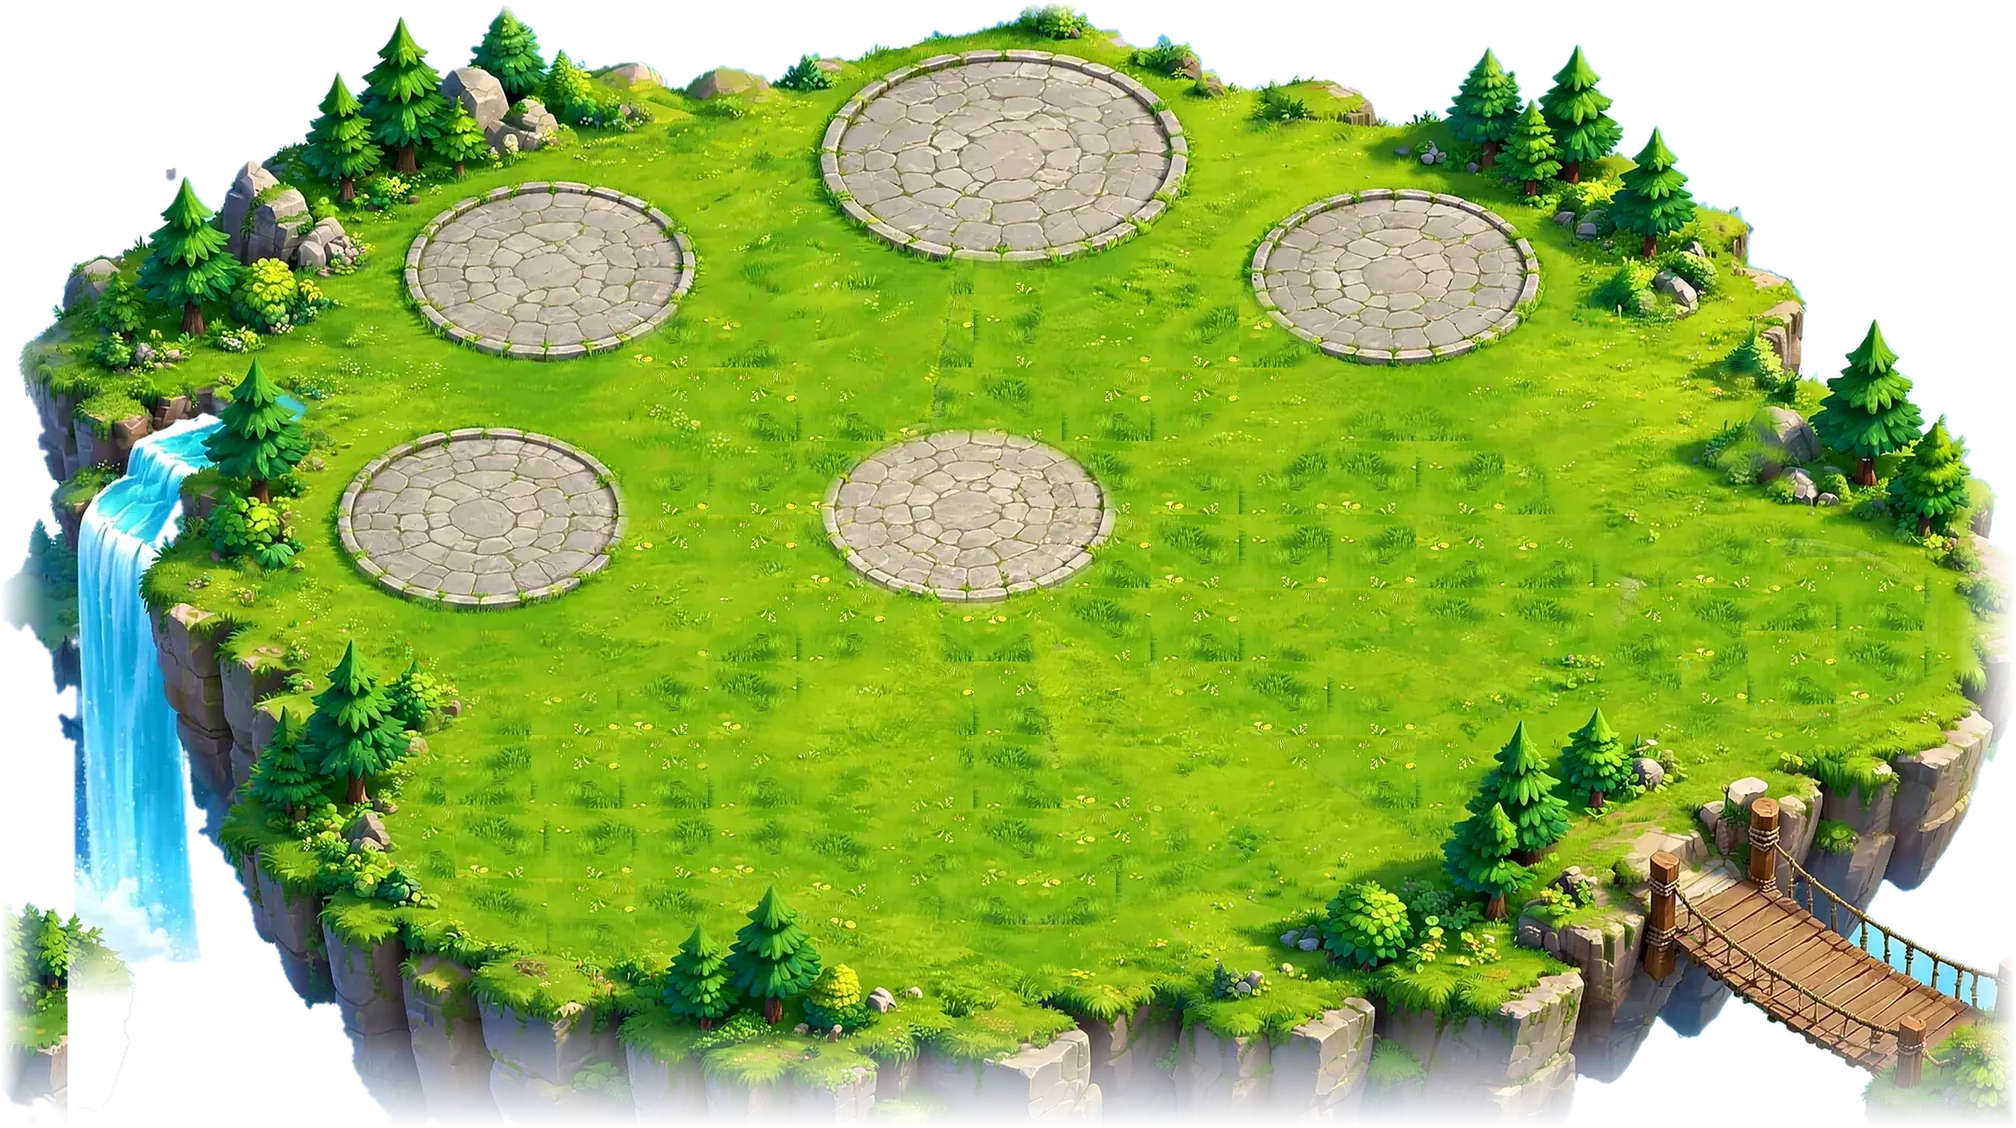
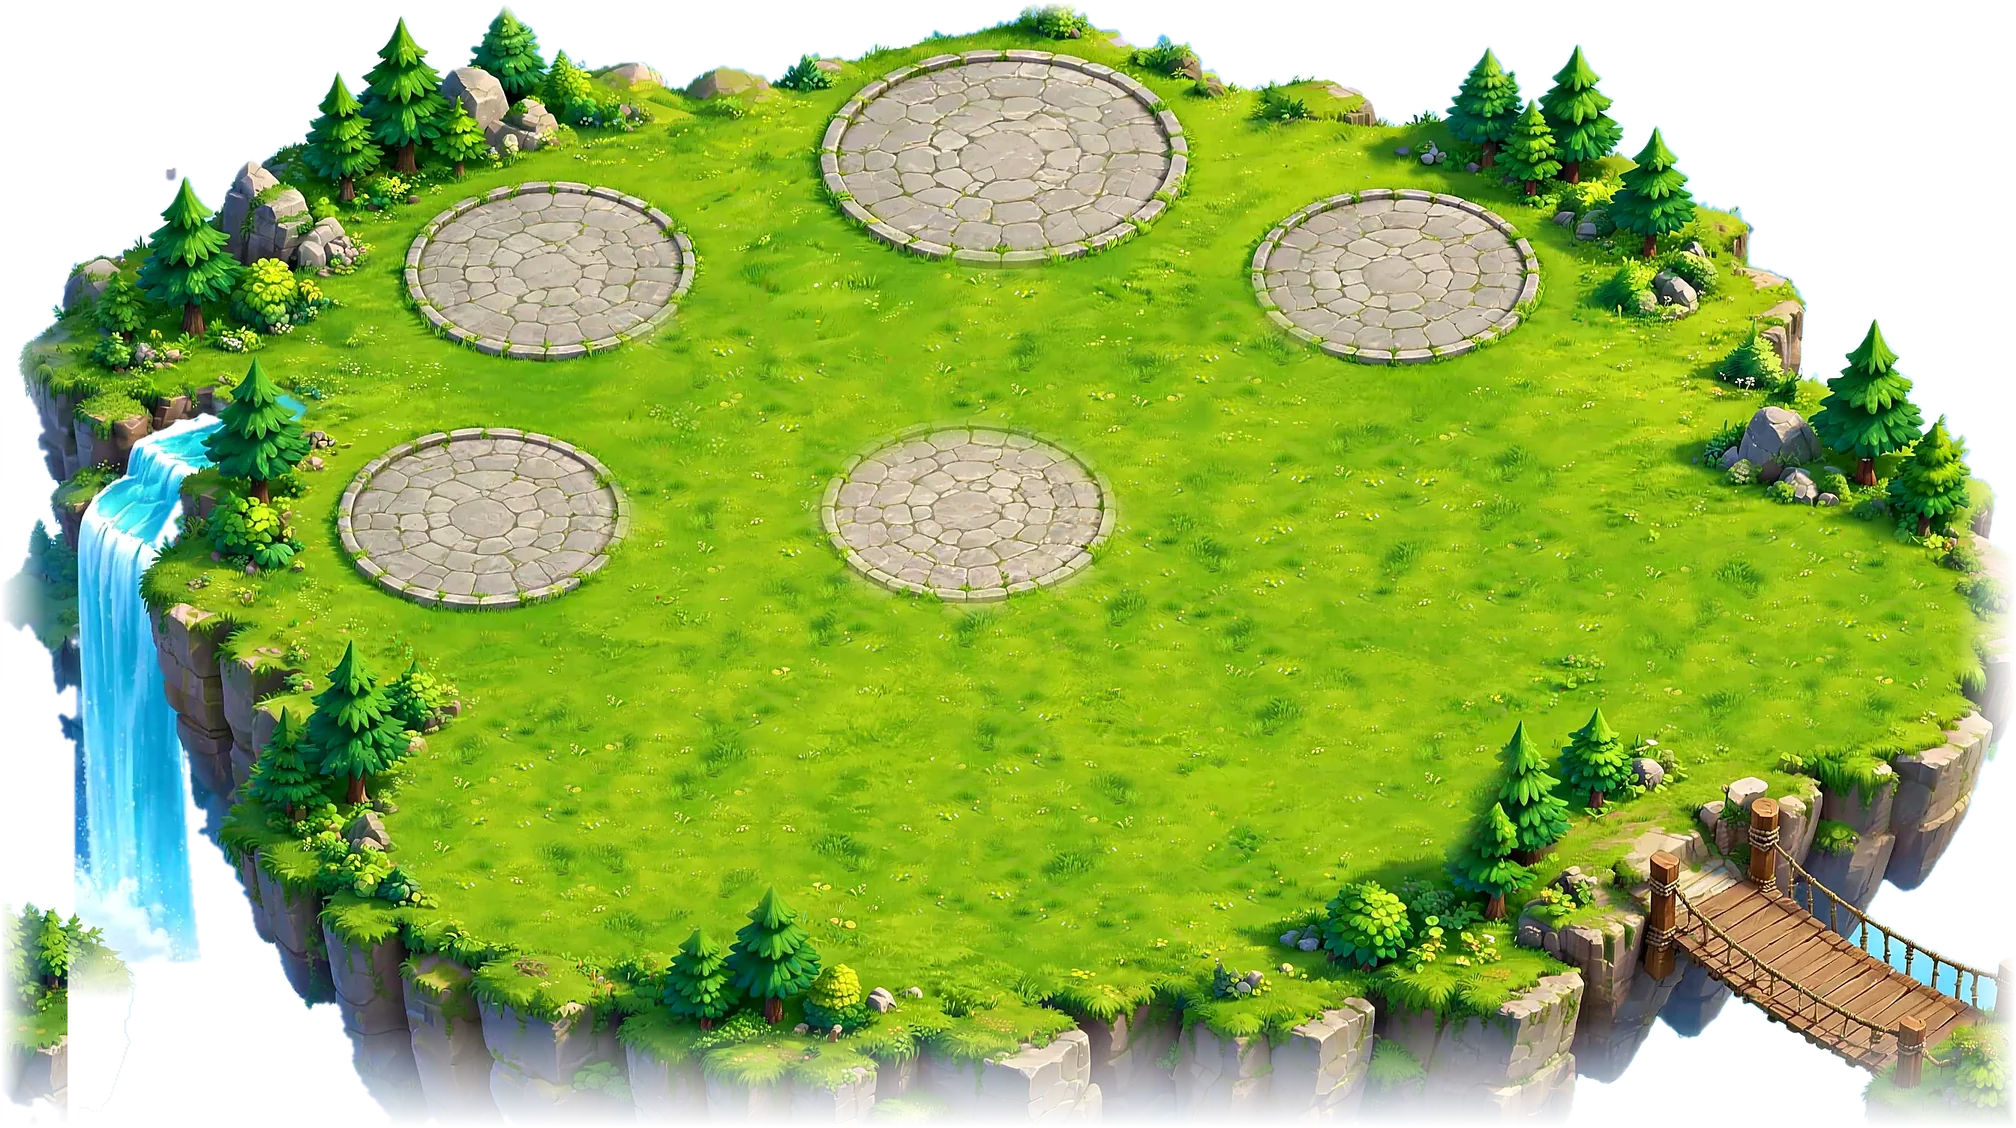
草地重新修補更自然；萌獸只走空地不踩建築；裝飾店改原版鐵匠鋪並加入建築外觀（7種）
Claude-Session: https://claude.ai/code/session_011E9LWKbRev5CpXJ2t3WaU7

diff --git a/index.html b/index.html
@@ -557,9 +557,9 @@ function sprite(name, gx, gy, w, opt={}){
   return `<image href="${A(name)}" x="${(x-w/2).toFixed(1)}" y="${yy.toFixed(1)}" width="${w}" height="${h.toFixed(1)}" ${opt.cls?`class="${opt.cls}"`:''}/>`;
 }
 /* 建築外觀（萌獸 7 種樣式） */
-const SKIN_R = {"b_play": 1.1599, "bb_play": 1.164, "bc_play": 1.203, "bf_play": 1.166, "bi_play": 1.1429, "bj_play": 1.1721, "bl_play": 1.1802, "b_academy": 1.0702, "bb_academy": 1.115, "bc_academy": 1.25, "bf_academy": 1.115, "bi_academy": 1.1918, "bj_academy": 1.113, "bl_academy": 1.115, "b_farm": 1.0357, "bb_farm": 1.0317, "bc_farm": 1.0793, "bf_farm": 1.0556, "bi_farm": 1.1327, "bj_farm": 1.0575, "bl_farm": 1.0575, "b_shop": 1.0997, "bb_shop": 1.1268, "bc_shop": 1.1615, "bf_shop": 1.115, "bi_shop": 1.1388, "bj_shop": 1.1189, "bl_shop": 1.1348, "b_fountain": 1.1679, "bb_fountain": 1.1532, "bc_fountain": 1.1228, "bf_fountain": 1.147, "bi_fountain": 1.1429, "bj_fountain": 1.1449, "bl_fountain": 1.1615, "b_train": 1.0774, "bb_train": 1.1151, "bc_train": 1.0884, "bf_train": 1.119, "bi_train": 1.1348, "bj_train": 1.119, "bl_train": 1.1369, "b_play": 1.1599};
-const SKIN_PART = {home:'academy', barn:'farm', shop:'shop', fountain:'fountain', pen:'play'};
-const SKIN_DEF = {home:'b', barn:'b', shop:'b', fountain:'b', pen:'b'};
+const SKIN_R = {"b_forge": 1.1449, "bb_forge": 1.1307, "bc_forge": 1.1532, "bf_forge": 1.1287, "bi_forge": 1.149, "bj_forge": 1.1429, "bl_forge": 1.1327, "b_play": 1.1599, "bb_play": 1.164, "bc_play": 1.203, "bf_play": 1.166, "bi_play": 1.1429, "bj_play": 1.1721, "bl_play": 1.1802, "b_academy": 1.0702, "bb_academy": 1.115, "bc_academy": 1.25, "bf_academy": 1.115, "bi_academy": 1.1918, "bj_academy": 1.113, "bl_academy": 1.115, "b_farm": 1.0357, "bb_farm": 1.0317, "bc_farm": 1.0793, "bf_farm": 1.0556, "bi_farm": 1.1327, "bj_farm": 1.0575, "bl_farm": 1.0575, "b_shop": 1.0997, "bb_shop": 1.1268, "bc_shop": 1.1615, "bf_shop": 1.115, "bi_shop": 1.1388, "bj_shop": 1.1189, "bl_shop": 1.1348, "b_fountain": 1.1679, "bb_fountain": 1.1532, "bc_fountain": 1.1228, "bf_fountain": 1.147, "bi_fountain": 1.1429, "bj_fountain": 1.1449, "bl_fountain": 1.1615, "b_train": 1.0774, "bb_train": 1.1151, "bc_train": 1.0884, "bf_train": 1.119, "bi_train": 1.1348, "bj_train": 1.119, "bl_train": 1.1369, "b_play": 1.1599};
+const SKIN_PART = {home:'academy', barn:'farm', shop:'shop', fountain:'fountain', pen:'play', decor:'forge'};
+const SKIN_DEF = {home:'b', barn:'b', shop:'b', fountain:'b', pen:'b', decor:'b'};
 const SKIN_NAME = {b:'原版', bb:'紅磚', bc:'糖果', bf:'森林', bi:'冰雪', bj:'翡翠', bl:'熔岩'};
 const skinImg = (k, st) => (st||SKIN_DEF[k]) + '_' + SKIN_PART[k];
 function skinSprite(k, gx, gy, w, foot){ const [x,y]=iso(gx,gy), img=skinImg(k), h=w*(SKIN_R[img]||1);
@@ -800,7 +800,7 @@ function buildWorld(){
   const addMover=(html,o)=>{ const g=document.createElementNS('http://www.w3.org/2000/svg','g'); g.innerHTML=`<g class="mvin">${html}</g>`; mv.appendChild(g); movers.push(Object.assign({el:g,wait:0,face:1},o)); };
   const pet=(n,w)=>{ const h=w*(RATIO[n]||1); return `<ellipse cx="0" cy="1" rx="${w*0.32}" ry="${w*0.1}" fill="rgba(0,0,0,.16)"/><g class="hop"><image href="${A(n)}" x="${-w/2}" y="${-h*0.96}" width="${w}" height="${h}"/></g>`; };
   // 農場主人（用頭像做的人物，自己家＝自己，拜訪＝好友）
-  const C0=HG(645,395), WP=[[645,395],[470,250],[645,395],[668,215],[645,395],[860,255],[645,395],[790,345],[860,370],[790,345],[645,395],[430,395],[645,395],[520,440],[645,395],[690,470]].map(([x,y])=>HG(x,y));
+  const C0=HG(645,425), WP=[[645,425],[560,425],[545,290],[600,240],[545,290],[560,425],[645,425],[730,425],[712,282],[690,240],[712,282],[730,425],[645,425],[650,470]].map(([x,y])=>HG(x,y));
   addMover('',{x:C0[0],y:C0[1],path:WP,tgt:1,speed:0.55,s:1.25,farmer:true});
   farmerMover=movers[movers.length-1]; farmerAv=null;
   for(let k=0;k<4;k++) addMover(CHICK,{x:RX+0.6+rnd()*(RW-1.2),y:RY+0.6+rnd()*(RD-1.0),chick:true,area:[RX+0.3,RY+0.3,RX+RW-0.3,RY+RD-0.3],speed:0.5,s:1.25,wait:rnd()*2});
@@ -1279,7 +1279,7 @@ function checkEvolve(){
 
 /* ================= 建築外觀商店 ================= */
 let SKINS = [], skinTab = 'home';
-const SKIN_BLD = {home:'我的家', barn:'穀倉', shop:'種子商店', fountain:'噴水池', pen:'萌獸園'};
+const SKIN_BLD = {home:'我的家', barn:'穀倉', shop:'種子商店', fountain:'噴水池', pen:'萌獸園', decor:'裝飾店'};
 function openSkinShop(t){
   if(mode==='visit') return toast('回到自己的農場才能換外觀');
   if(t) skinTab=t;

diff --git a/src/town.js b/src/town.js
@@ -38,9 +38,9 @@ function sprite(name, gx, gy, w, opt={}){
   return `<image href="${A(name)}" x="${(x-w/2).toFixed(1)}" y="${yy.toFixed(1)}" width="${w}" height="${h.toFixed(1)}" ${opt.cls?`class="${opt.cls}"`:''}/>`;
 }
 /* 建築外觀（萌獸 7 種樣式） */
-const SKIN_R = {"b_play": 1.1599, "bb_play": 1.164, "bc_play": 1.203, "bf_play": 1.166, "bi_play": 1.1429, "bj_play": 1.1721, "bl_play": 1.1802, "b_academy": 1.0702, "bb_academy": 1.115, "bc_academy": 1.25, "bf_academy": 1.115, "bi_academy": 1.1918, "bj_academy": 1.113, "bl_academy": 1.115, "b_farm": 1.0357, "bb_farm": 1.0317, "bc_farm": 1.0793, "bf_farm": 1.0556, "bi_farm": 1.1327, "bj_farm": 1.0575, "bl_farm": 1.0575, "b_shop": 1.0997, "bb_shop": 1.1268, "bc_shop": 1.1615, "bf_shop": 1.115, "bi_shop": 1.1388, "bj_shop": 1.1189, "bl_shop": 1.1348, "b_fountain": 1.1679, "bb_fountain": 1.1532, "bc_fountain": 1.1228, "bf_fountain": 1.147, "bi_fountain": 1.1429, "bj_fountain": 1.1449, "bl_fountain": 1.1615, "b_train": 1.0774, "bb_train": 1.1151, "bc_train": 1.0884, "bf_train": 1.119, "bi_train": 1.1348, "bj_train": 1.119, "bl_train": 1.1369, "b_play": 1.1599};
-const SKIN_PART = {home:'academy', barn:'farm', shop:'shop', fountain:'fountain', pen:'play'};
-const SKIN_DEF = {home:'b', barn:'b', shop:'b', fountain:'b', pen:'b'};
+const SKIN_R = {"b_forge": 1.1449, "bb_forge": 1.1307, "bc_forge": 1.1532, "bf_forge": 1.1287, "bi_forge": 1.149, "bj_forge": 1.1429, "bl_forge": 1.1327, "b_play": 1.1599, "bb_play": 1.164, "bc_play": 1.203, "bf_play": 1.166, "bi_play": 1.1429, "bj_play": 1.1721, "bl_play": 1.1802, "b_academy": 1.0702, "bb_academy": 1.115, "bc_academy": 1.25, "bf_academy": 1.115, "bi_academy": 1.1918, "bj_academy": 1.113, "bl_academy": 1.115, "b_farm": 1.0357, "bb_farm": 1.0317, "bc_farm": 1.0793, "bf_farm": 1.0556, "bi_farm": 1.1327, "bj_farm": 1.0575, "bl_farm": 1.0575, "b_shop": 1.0997, "bb_shop": 1.1268, "bc_shop": 1.1615, "bf_shop": 1.115, "bi_shop": 1.1388, "bj_shop": 1.1189, "bl_shop": 1.1348, "b_fountain": 1.1679, "bb_fountain": 1.1532, "bc_fountain": 1.1228, "bf_fountain": 1.147, "bi_fountain": 1.1429, "bj_fountain": 1.1449, "bl_fountain": 1.1615, "b_train": 1.0774, "bb_train": 1.1151, "bc_train": 1.0884, "bf_train": 1.119, "bi_train": 1.1348, "bj_train": 1.119, "bl_train": 1.1369, "b_play": 1.1599};
+const SKIN_PART = {home:'academy', barn:'farm', shop:'shop', fountain:'fountain', pen:'play', decor:'forge'};
+const SKIN_DEF = {home:'b', barn:'b', shop:'b', fountain:'b', pen:'b', decor:'b'};
 const SKIN_NAME = {b:'原版', bb:'紅磚', bc:'糖果', bf:'森林', bi:'冰雪', bj:'翡翠', bl:'熔岩'};
 const skinImg = (k, st) => (st||SKIN_DEF[k]) + '_' + SKIN_PART[k];
 function skinSprite(k, gx, gy, w, foot){ const [x,y]=iso(gx,gy), img=skinImg(k), h=w*(SKIN_R[img]||1);
@@ -281,7 +281,7 @@ function buildWorld(){
   const addMover=(html,o)=>{ const g=document.createElementNS('http://www.w3.org/2000/svg','g'); g.innerHTML=`<g class="mvin">${html}</g>`; mv.appendChild(g); movers.push(Object.assign({el:g,wait:0,face:1},o)); };
   const pet=(n,w)=>{ const h=w*(RATIO[n]||1); return `<ellipse cx="0" cy="1" rx="${w*0.32}" ry="${w*0.1}" fill="rgba(0,0,0,.16)"/><g class="hop"><image href="${A(n)}" x="${-w/2}" y="${-h*0.96}" width="${w}" height="${h}"/></g>`; };
   // 農場主人（用頭像做的人物，自己家＝自己，拜訪＝好友）
-  const C0=HG(645,395), WP=[[645,395],[470,250],[645,395],[668,215],[645,395],[860,255],[645,395],[790,345],[860,370],[790,345],[645,395],[430,395],[645,395],[520,440],[645,395],[690,470]].map(([x,y])=>HG(x,y));
+  const C0=HG(645,425), WP=[[645,425],[560,425],[545,290],[600,240],[545,290],[560,425],[645,425],[730,425],[712,282],[690,240],[712,282],[730,425],[645,425],[650,470]].map(([x,y])=>HG(x,y));
   addMover('',{x:C0[0],y:C0[1],path:WP,tgt:1,speed:0.55,s:1.25,farmer:true});
   farmerMover=movers[movers.length-1]; farmerAv=null;
   for(let k=0;k<4;k++) addMover(CHICK,{x:RX+0.6+rnd()*(RW-1.2),y:RY+0.6+rnd()*(RD-1.0),chick:true,area:[RX+0.3,RY+0.3,RX+RW-0.3,RY+RD-0.3],speed:0.5,s:1.25,wait:rnd()*2});

diff --git a/admin.html b/admin.html
@@ -174,7 +174,7 @@ async function pageCf(){
       <td><input class="num" id="g_${g.id}_lv" type="number" value="${g.lv}"></td><td><button class="btn" data-gid="${g.id}">儲存</button></td></tr>`).join('')}</table></div>
     <div class="card"><h2>建築外觀</h2><div class="muted" style="margin-bottom:8px">金幣價和鑽石價擇一填；兩個都留空＝不能購買。</div>
     <table><tr><th>外觀</th><th>建築</th><th>名稱</th><th>金幣價</th><th>鑽石價</th><th></th></tr>
-    ${(C.skins||[]).map(k=>`<tr><td><img src="assets/th_${k.style}_${({home:'academy',barn:'farm',shop:'shop',fountain:'fountain',pen:'play'})[k.bld]}.webp" style="width:40px;height:40px;object-fit:contain"></td><td>${({home:'我的家',barn:'穀倉',shop:'種子商店',fountain:'噴水池',pen:'萌獸園'})[k.bld]}</td>
+    ${(C.skins||[]).map(k=>`<tr><td><img src="assets/th_${k.style}_${({home:'academy',barn:'farm',shop:'shop',fountain:'fountain',pen:'play',decor:'forge'})[k.bld]}.webp" style="width:40px;height:40px;object-fit:contain"></td><td>${({home:'我的家',barn:'穀倉',shop:'種子商店',fountain:'噴水池',pen:'萌獸園',decor:'裝飾店'})[k.bld]}</td>
       <td><input id="k_${k.id}_name" value="${esc(k.name)}" style="width:6em"></td><td><input class="num" id="k_${k.id}_gold" type="number" value="${k.gold??''}"></td><td><input class="num" id="k_${k.id}_gems" type="number" value="${k.gems??''}"></td><td><button class="btn" data-kid="${k.id}">儲存</button></td></tr>`).join('')}</table></div>`);
   document.querySelectorAll('[data-sk]').forEach(b=>b.onclick=async()=>{ try{ await rpc('adm_setting_set',{p_key:b.dataset.sk,p_value:+$('s_'+b.dataset.sk).value}); toast('已儲存'); }catch(e){ toast(e.message); } });
   document.querySelectorAll('[data-cid]').forEach(b=>b.onclick=async()=>{ const id=b.dataset.cid, v=f=>+$(`c_${id}_${f}`).value;

diff --git a/src/gear.js b/src/gear.js
@@ -110,7 +110,7 @@ function checkEvolve(){
 
 /* ================= 建築外觀商店 ================= */
 let SKINS = [], skinTab = 'home';
-const SKIN_BLD = {home:'我的家', barn:'穀倉', shop:'種子商店', fountain:'噴水池', pen:'萌獸園'};
+const SKIN_BLD = {home:'我的家', barn:'穀倉', shop:'種子商店', fountain:'噴水池', pen:'萌獸園', decor:'裝飾店'};
 function openSkinShop(t){
   if(mode==='visit') return toast('回到自己的農場才能換外觀');
   if(t) skinTab=t;
